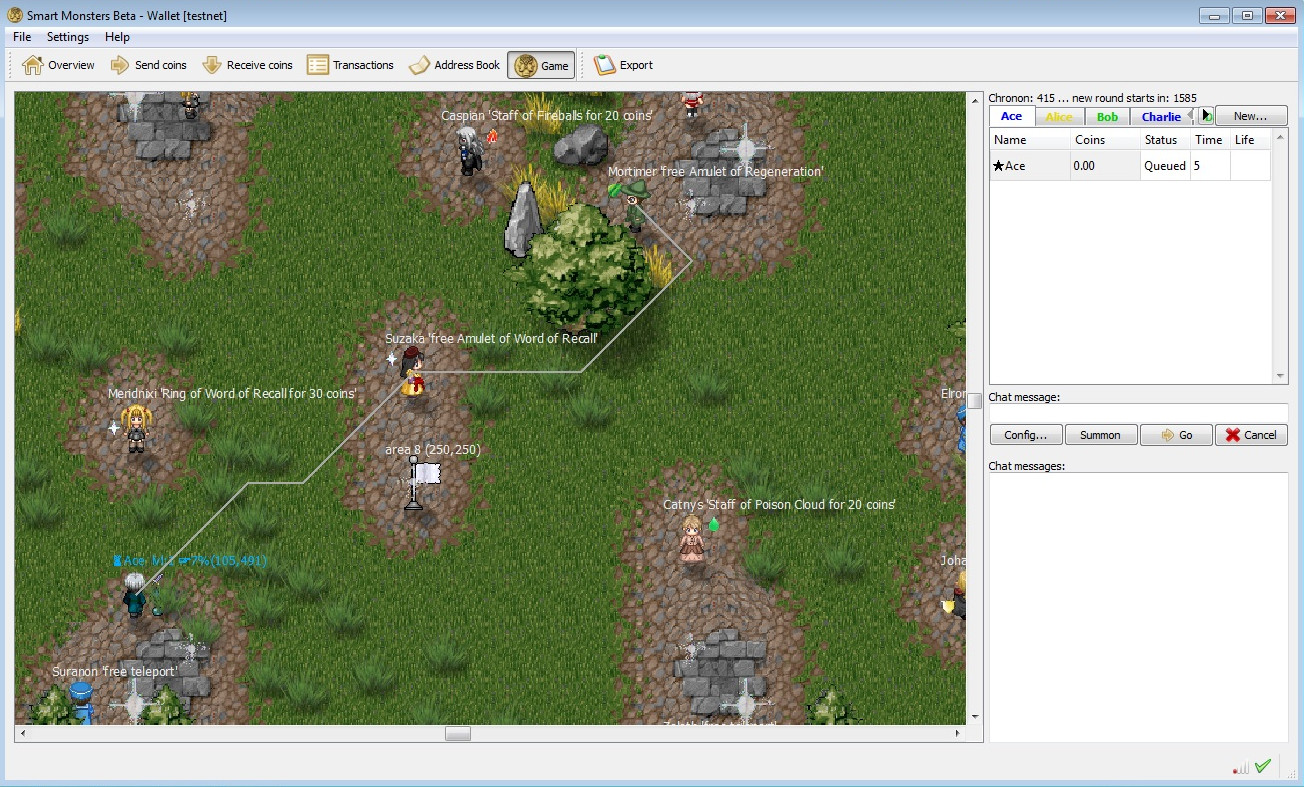
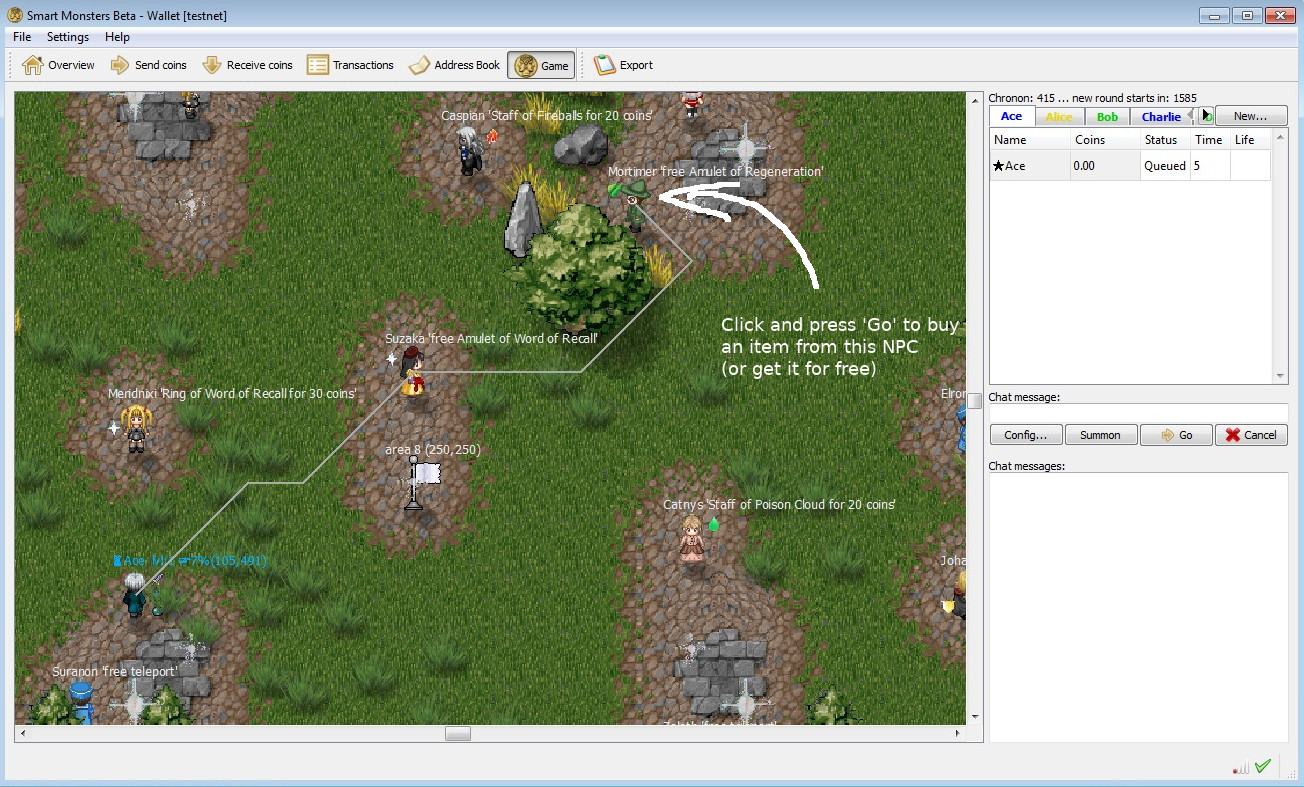
Edit the 'Start a new character' page

diff --git a/Manual1.html b/Manual1.html
@@ -170,12 +170,12 @@
 
 <p>It can <a href="Manual4.html#POW">mine coins for the testnet.</a> Mined coins must mature for 120 blocks before they can be used.</p>
 
-<p>The default data folder on Windows can be found at "...\<i>username</i>\AppData\Roaming\SmartMonsters\testnet_beta". It contains blockchain and config file for online play.</p>
+<p>Default data folder on Windows can be found at "...\<i>username</i>\AppData\Roaming\SmartMonsters\testnet_beta". It contains blockchain and config file for online play.</p>
 
 
 			<h1><br>Starting a new character</h1>
 
-<p>Click "New" button, and choose a name and a color. Creating a new character is a transaction -- after it has confirmed in the blockchain, the new char appears on the map.</p>
+<p>Click "New" button, and choose name and color. Creating a new character is a transaction -- after it has confirmed in the blockchain, the new char appears on the map.</p>
 
 <br><img src="Manual_files/Ace1.jpg" alt="" class="bbc_img"><br>
 
@@ -204,59 +204,37 @@
 <br><img src="Manual_files/Ace4.jpg" alt="" class="bbc_img"><br>
 
 
-<p>The center and the 4 color bases are safe zones, combat is not possible here.
- Players of other colors can't walk across the base perimeter (the tiles marked on map are still within the safe zone).</p>
+<p>Center and the 4 color bases are safe zones, combat is not possible here.
+ Players of other colors can't walk across the base perimeter (tiles marked on map are still within the safe zone).</p>
 
 <br><img src="Manual_files/orVZMr9.jpg" alt="" class="bbc_img">
 
 
             <h1 id="Movement"><br>Movement in safe zones</h1>
 
-<p>To move, set a path to any destination with a mouse click or ctrl-click to queue several destination, then press "Go" button. Moving is a transaction -- the path will change from grey to purple after it has confirmed in the blockchain.</p>
+<p>To move, set a path to any destination with a mouse click, then press "Go" button. Moving is a transaction -- the path will change from grey to purple after it has confirmed in the blockchain.</p>
 
 <p>Four 2-way teleporters connect the center and the bases. 
  To teleport, stand still on the bright glowing tile.</p>
 
-<br><img src="Manual_files/Ace13.jpg" alt="" class="bbc_img">
+<br><img src="Manual_files/Ace13.jpg" alt="" class="bbc_img"><br>
 
-<p>New characters don't own coins but can get free items from some <a href="Manual3.html#NPCs">merchant NPCs</a>. Hold down Ctrl button and click on the NPCs to queue a shopping tour and back to the teleporter, then  press "Go".</p>
+<br><p>New characters don't own coins but can get free items from some <a href="Manual3.html#NPCs">merchant NPCs</a>.</p>
 
-<br><img src="Manual_files/Ace15.jpg" alt="" class="bbc_img"><br>
+<p>To save time, use ctrl-click (Ctrl button + left mouse button) to queue several destinations, then  press "Go".</p>
+
+<img src="Manual_files/Ace15.jpg" alt="" class="bbc_img"><br>
 
 
-            <h1><br>Strategic movement orders (works everywhere)</h1>
+            <h1><br>Strategic travel orders (Movement outside safe zones)</h1>
 
-<p>Find a place with some coins that is nearby and doesn't look too dangerous. Click near the flagpole, then press "Go" button</p>
+<p>It's not possible to "manually" step outside of a safe zone. All movement outside of safe zones is delayed.</p>
+
+<p>Interesting areas have a flagpole as area marker. To go there, click near the flagpole, then press "Go" button</p>
+
+<p>Travel orders to (but not from) battlefield areas are irrevocable.</p>
 
 <br><img src="Manual_files/Ace5.jpg" alt="" class="bbc_img"><br>
-
-<p>However, it's not possible to "manually" step outside of a safe zone.</p>
-
-<br><img src="Manual_files/Ace10.jpg" alt="" class="bbc_img"><br>
-
-<p>If the end point of your path
- was within 12 tiles distance to a flag pole, this area becomes the ordered target area for next round. (1 round == 2000 blocks)</p>
-
-<p>If the order was given less than 1000 blocks before the old round ended, it may not be effective for the new round,
- and will only go into effect 1 round later. (500 blocks = 50% chance, 250 blocks = 25% chance, and so on). This is to balance the disadvantage of
- sending your move before knowing other player's moves.</p>
-
-<p>Ace has to wait 1624 blocks, we're done playing for today (and can close the Smartmonsters client)</p>
-
-
-            <h1><br>Movement outside safezones</h1>
-
-<p>Movement orders to battlefield areas are irrevocable. This sort of movement, and fights between characters are always AI controlled.</p>
-
-<p>Combat results depend only on character equipment and tactical situation.
-You can see movement orders of all players in the character list (stats_characters.html).</p>
-
-<br><img src="Manual_files/Ace19.jpg" alt="" class="bbc_img"><br>
-
-<p>Ace has now collected some coins and created 5 additional Aces. If we order him back to base now, he will continue collecting coins until next round begins. On the other hand, Ace1, Ace2 etc are already in a safe zone, so we can move them right away.</p>
-
-<br><img src="Manual_files/Ace20.jpg" alt="" class="bbc_img"><br>
-
 
 
 
@@ -291,18 +269,22 @@ You can see movement orders of all players in the character list (stats_characte
 
 
 
-            <h1 id="Strategy"><br>Basic Strategy</h1>
+            <h1 id="Strategy"><br>Basic Strategy for new characters</h1>
 
-<p>It makes sense to visit the center first and get some free items, most notably the Amulet of Word of Recall. Then set path to one of the coins-spawning areas.
-Choose wisely: once the characters leave safe zone, they are on their own and players can't be allowed to babysit them. The point of this game is really to predict the outcome of battles and to send your guys to fight on the winning side, preferably where the losing side is at risk of annihilation rather than mere rout.<p>
+<p>First set path to one of the coins-spawning areas (character AI will memorize this and go there later),
+then take a detour to visit the map center via teleporter and get some free items.
+When done, feel free to close the Smartmonsters wallet (travel to the coins-spawning areas and fights between characters are always AI controlled and automatic).<p>
 
-<p>When a new block is received, the node compiles a list with the queued Strategic Movement Orders of all players. It is most informative around mid-round,
-when 1000 blocks are left until a new round begins, and the chance of newly submitted (strategic) moves to be active next round is starting to drop from 100%. Which coin spawning area is not under attack
+<p>You can see orders of all players in the character list (stats_characters.html). It is most informative around the middle of a game round,
+when the chance of newly submitted orders to be active next round is starting to drop from 100%. Which coin spawning area is not under attack
 and also not overcrowded?<p>
 
-<p>Going into the combat zone from the map center is more dangerous than from your own base, easy to get sandwiched between groups of hostiles.
+<p>Choose wisely where to go: outside of safe zones, every unit is on their own.
+Combat results depend only on character equipment and tactical situation. The point of this game is really to predict the outcome of battles and to send your guys to fight on the winning side, preferably where the losing side is at risk of annihilation rather than mere rout.<p>
+
+<p>Going into the combat zone from map center is more dangerous than from your own base, easy to get sandwiched between groups of hostiles.
 However, when a new round begins, all characters of the same color (both PCs and monsters) get a 100 block time window to leave the center towards their own sector of the combat zone, making it slightly less dangerous
-(Other colors will automatically wait, and then get 20-block-timewindows per color so that everyone can leave the center in the direction they want.<p>
+(Other colors will automatically wait, and then get 20-block-time-windows per color so that everyone can leave the center in the direction they want.<p>
 
 
 
